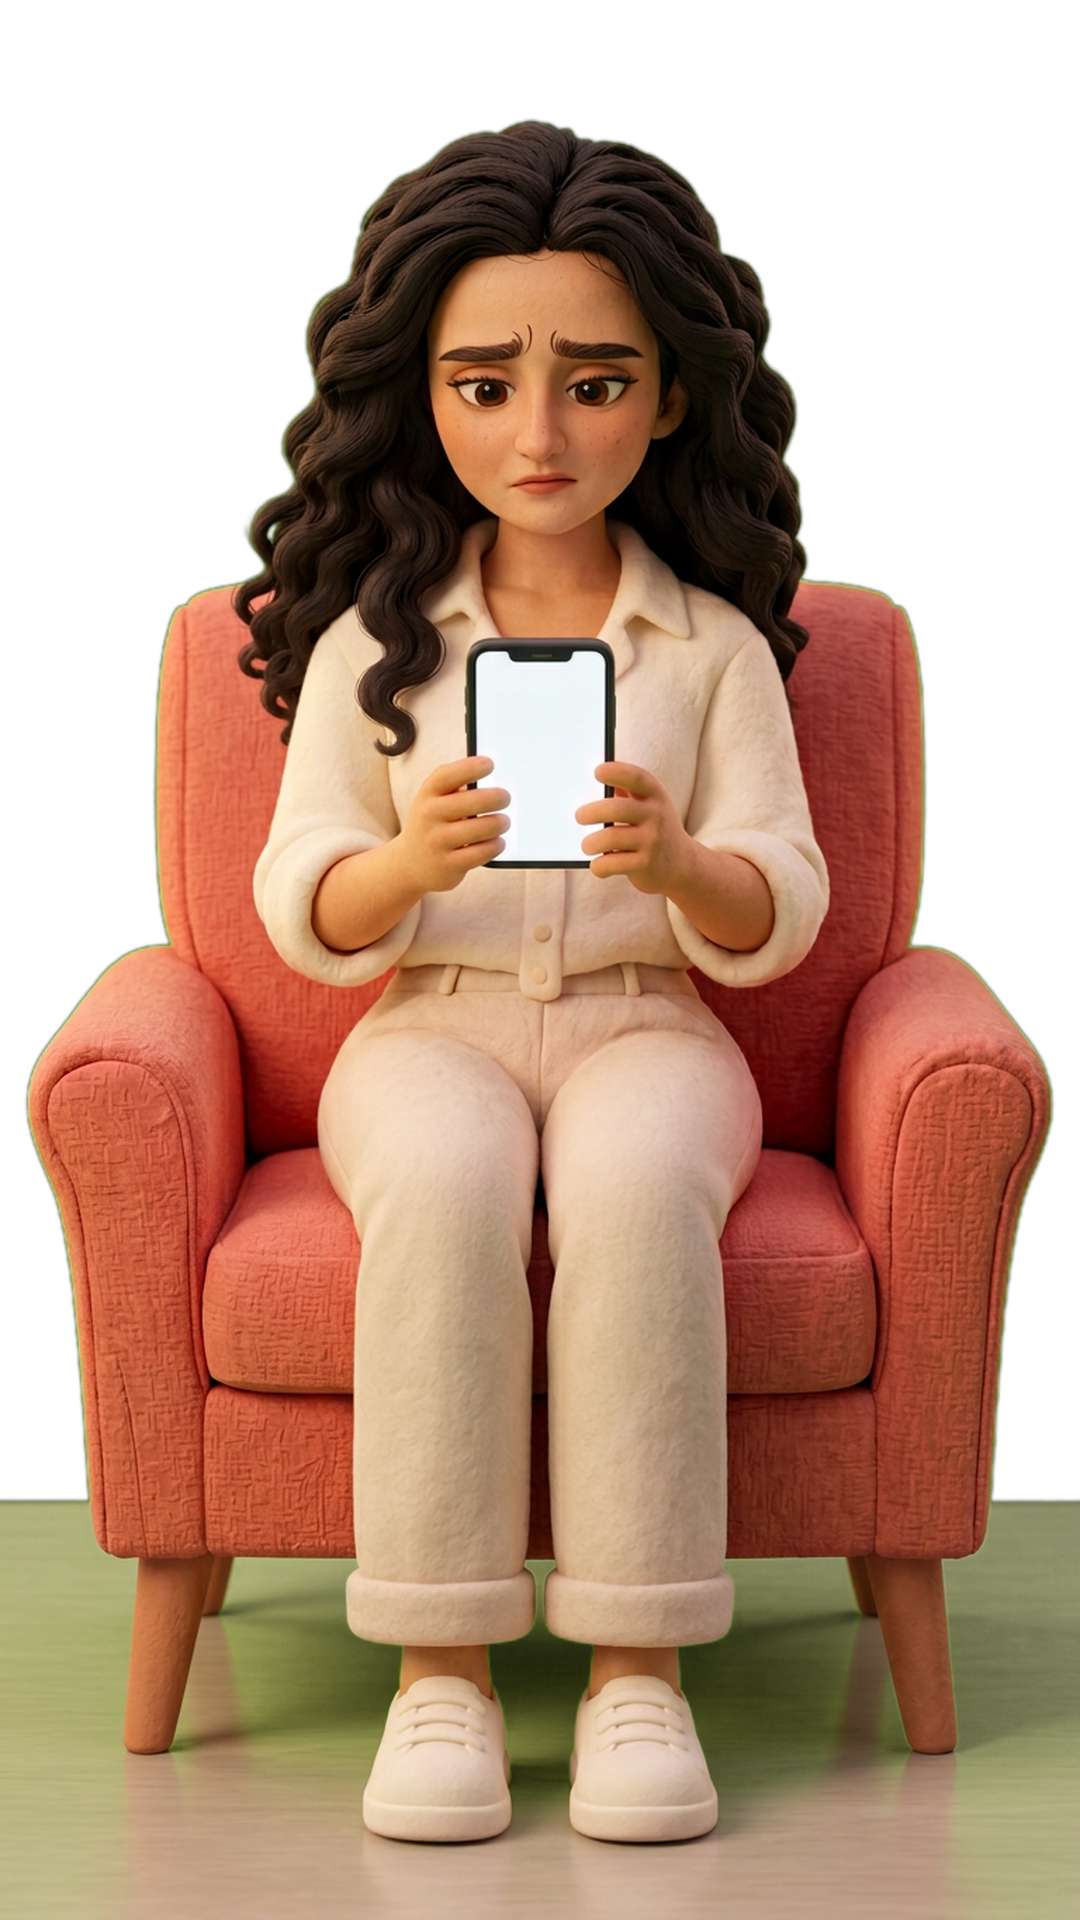
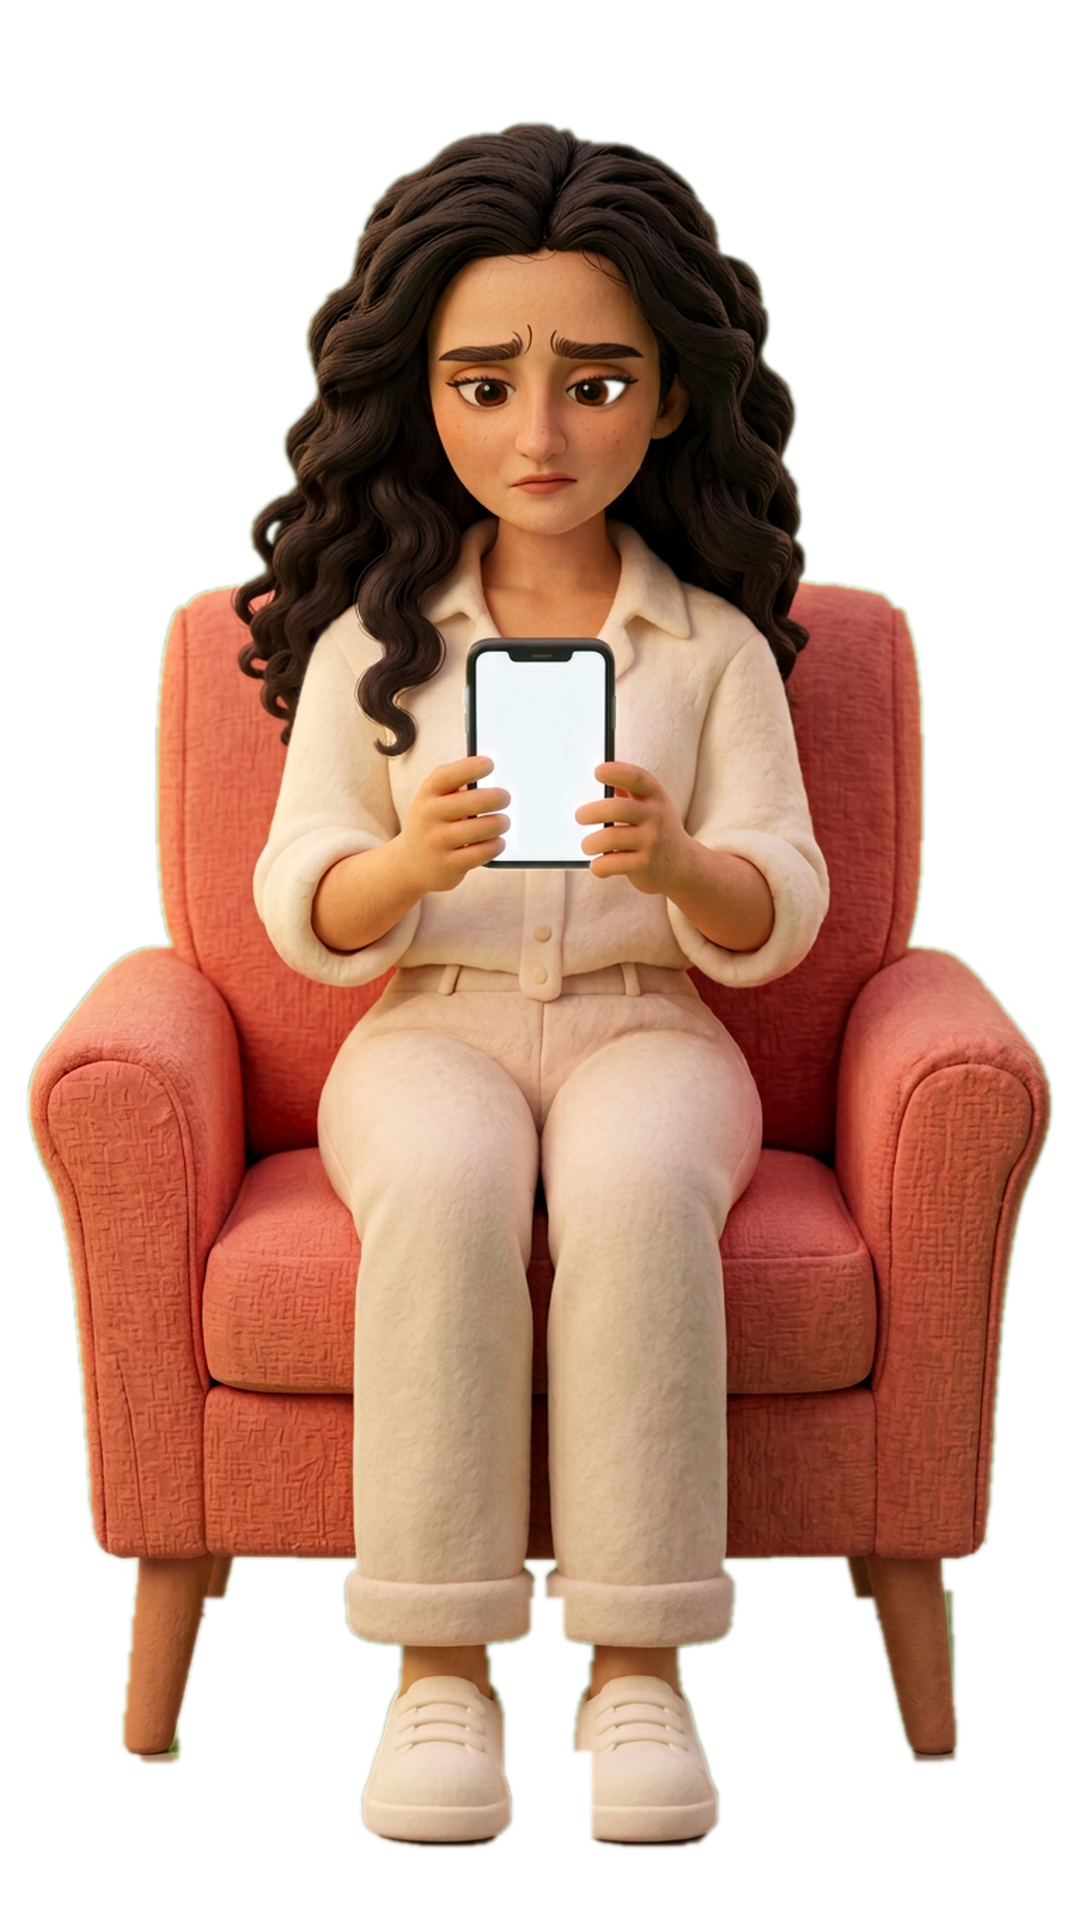
Repair Elina floor matte and subtitle safe position

diff --git a/psyche-studio/remotion/src/eli/test01.tsx b/psyche-studio/remotion/src/eli/test01.tsx
@@ -64,7 +64,7 @@ function Subtitle({line}:{line:Line}) {
   const eli=line.speaker==="eli";
   const label=eli?"الی":"الینا";
   const color=eli?"#ffd447":"#f08070";
-  return <div style={{position:"absolute",zIndex:25,top:1320,left:70,right:70,minHeight:170,display:"flex",flexDirection:"column",alignItems:"center",justifyContent:"center",gap:8}}>
+  return <div style={{position:"absolute",zIndex:25,top:1400,left:70,right:70,minHeight:170,display:"flex",flexDirection:"column",alignItems:"center",justifyContent:"center",gap:8}}>
     <div dir="rtl" style={{padding:"4px 22px",borderRadius:20,background:color,color:"#263139",fontFamily:font,fontSize:28,fontWeight:700,boxShadow:"0 4px 14px rgba(0,0,0,.2)"}}>{label}</div>
     <div dir="rtl" style={{width:"100%",textAlign:"center",color:"#fff",fontFamily:font,fontSize:line.id==="p1_l5"?40:44,fontWeight:700,lineHeight:1.28,textShadow:"0 3px 7px rgba(12,25,29,.95),0 1px 20px rgba(12,25,29,.8)",unicodeBidi:"plaintext"}}>{line.text}</div>
   </div>;
@@ -124,7 +124,7 @@ export const EliElinaTest01:React.FC=()=>{
   const eliStyle:CSSProperties={left:30,top:320,width:460,height:818,transform:`translateY(${Math.sin(frame/14)*13+eliBounce}px) rotate(${Math.sin(frame/31)*1.5}deg) scale(${entryScale})`,transformOrigin:"50% 70%",filter:"drop-shadow(0 16px 18px rgba(26,31,43,.23))"};
 
   return <AbsoluteFill style={{width:W,height:H,overflow:"hidden",background:"#84c4c5",fontFamily:font}}>
-    <div style={{position:"absolute",inset:-70,width:W+140,height:H+140,transform:`translateX(${roomShift}px) scale(${camera})`,transformOrigin:"center"}}>{portrait("room_plate.png")}</div>
+    <div style={{position:"absolute",inset:0,transform:`translateX(${roomShift}px) scale(${camera})`,transformOrigin:"center"}}>{portrait("room_plate.png")}</div>
     <div style={{position:"absolute",inset:0,opacity:sceneAlpha,pointerEvents:"none"}}>
       <div style={{position:"absolute",inset:0,transform:`scale(${camera})`,transformOrigin:"center"}}>
         {portrait(elinaFile[elinaPose],{...elinaStyle,opacity:elinaBlend.mix})}

diff --git a/psyche-studio/remotion/scripts/key-chroma-test01.py b/psyche-studio/remotion/scripts/key-chroma-test01.py
@@ -31,6 +31,16 @@ def key(source: Path, target: Path):
     matte_color = np.median(border, axis=0)
     distance = np.sqrt(np.sum((rgb - matte_color[None, None, :]) ** 2, axis=2))
     alpha = smoothstep(30.0, 112.0, distance)
+
+    if source.name.startswith("elina_chair_"):
+        # Remove the image-model floor spill with the reviewed grayscale lower
+        # matte; its edge is feathered separately from the chroma key.
+        matte_path = OUT / "source_images" / source.name.replace("_source.png", "_floor_matte.png")
+        floor_matte = np.asarray(Image.open(matte_path).convert("L"), dtype=np.float32) / 255.0
+        if floor_matte.shape != alpha.shape:
+            raise ValueError(f"matte size mismatch: {matte_path}")
+        alpha *= floor_matte
+
     alpha = np.asarray(Image.fromarray(np.uint8(alpha * 255), "L").filter(ImageFilter.GaussianBlur(1.0)), dtype=np.float32) / 255
     out = rgb.copy()
     other = np.maximum(out[:, :, 0], out[:, :, 2])
